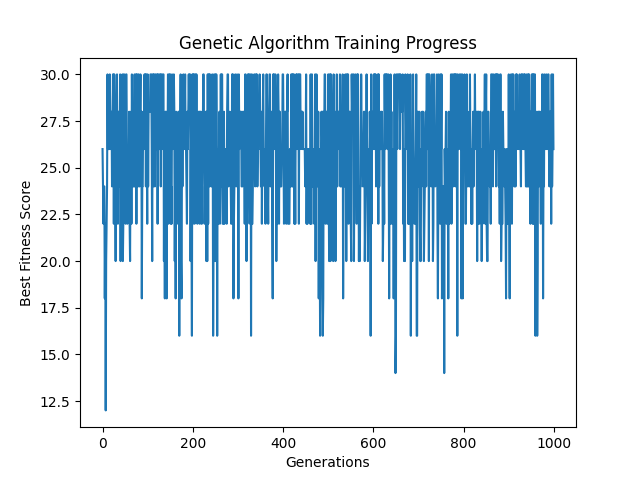
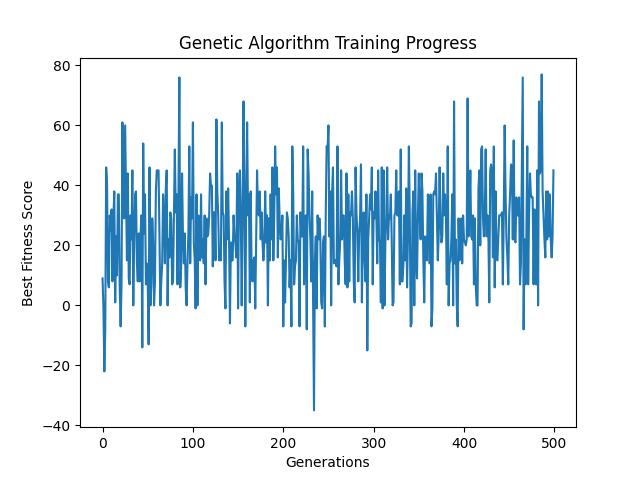
change fitness function

diff --git a/venv/tic_tac_toe_ai.py b/venv/tic_tac_toe_ai.py
@@ -1,57 +1,74 @@
 import numpy as np
 import random
+import pygame
+import os
 import matplotlib.pyplot as plt
 
+# Pygame settings
+WIDTH, HEIGHT = 300, 300
+SQUARE_SIZE = WIDTH // 3
+LINE_WIDTH = 5
+WHITE, BLACK, RED = (255, 255, 255), (0, 0, 0), (255, 0, 0)
+
+pygame.init()
+# screen = pygame.display.set_mode((WIDTH, HEIGHT))
+# pygame.display.set_caption("Tic Tac Toe AI Training")
+
 class GeneticAI:
-    def __init__(self, population_size=100, mutation_rate=0.1, generations=1000):
+    def __init__(self, population_size=90, mutation_rate=0.1, generations=500):
         self.population_size = population_size
         self.mutation_rate = mutation_rate
         self.generations = generations
         self.population = [self.create_random_strategy() for _ in range(population_size)]
 
     def create_random_strategy(self):
-        return np.random.rand(3, 3)  # Random weights for moves
+        return np.random.rand(3, 3) * 2 - 1  # Values range from -1 to 1
 
     def evaluate(self, strategy):
+        """Improved fitness function for AI"""
         score = 0
         for _ in range(10):  # Simulate 10 games per strategy
             board = [[None] * 3 for _ in range(3)]
             result = self.simulate_game(strategy, board)
             if result == "win":
-                score += 3
+                score += 10
             elif result == "draw":
-                score += 1
+                score += 2
             elif result == "loss":
-                score -= 1
+                score -= 5
         return score
 
     def simulate_game(self, strategy, board):
-           for _ in range(9):
-               move = self.select_best_move(strategy, board)
-               if move is None:
-                   break
-               row, col = move
-               board[row][col] = 'X'
-               # draw_board(board)
-               # pygame.display.update()
-               # pygame.time.delay(500)  # Show move for better visualization
-   
-               if self.check_winner(board, 'X'):
-                   return "win"
-   
-               self.random_opponent_move(board)
+        """Visualize AI playing Tic-Tac-Toe"""
+        # screen.fill(WHITE)
+        # draw_grid()
+
+        for _ in range(9):
+            move = self.select_best_move(strategy, board)
+            if move is None:
+                break
+            row, col = move
+            board[row][col] = 'X'
             # draw_board(board)
-               # pygame.display.update()
+            # pygame.display.update()
             # pygame.time.delay(500)
 
-               if self.check_winner(board, 'O'):
-                   return "loss"
-           return "draw"
+            if self.check_winner(board, 'X'):
+                return "win"
 
+            self.smart_opponent_move(board)  # Dynamic opponent
+            # draw_board(board)
+            # pygame.display.update()
+            # pygame.time.delay(500)
+
+            if self.check_winner(board, 'O'):
+                return "loss"
+
+        return "draw"
 
     def select_best_move(self, strategy, board):
         """Select the best move based on strategy values."""
-        best_score = -1
+        best_score = -float('inf')
         best_move = None
         for row in range(3):
             for col in range(3):
@@ -61,9 +78,26 @@ class GeneticAI:
                         best_move = (row, col)
         return best_move
 
-    def random_opponent_move(self, board):
-        """Make a random move for the opponent."""
+    def smart_opponent_move(self, board):
+        """Opponent tries to block AI from winning."""
         empty_positions = [(r, c) for r in range(3) for c in range(3) if board[r][c] is None]
+
+        # Try to win
+        for row, col in empty_positions:
+            board[row][col] = 'O'
+            if self.check_winner(board, 'O'):
+                return
+            board[row][col] = None  # Undo
+
+        # Try to block AI from winning
+        for row, col in empty_positions:
+            board[row][col] = 'X'
+            if self.check_winner(board, 'X'):
+                board[row][col] = 'O'
+                return
+            board[row][col] = None  # Undo
+
+        # If no immediate threat, play randomly
         if empty_positions:
             row, col = random.choice(empty_positions)
             board[row][col] = 'O'
@@ -83,7 +117,7 @@ class GeneticAI:
     def mutate(self, strategy):
         """Apply mutations to strategy."""
         if random.random() < self.mutation_rate:
-            mutation = np.random.normal(0, 0.1, (3, 3))
+            mutation = np.random.normal(0, 0.3, (3, 3))  # Stronger mutation
             strategy += mutation
         return strategy
 
@@ -96,7 +130,7 @@ class GeneticAI:
         """Train AI using Genetic Algorithm."""
         scores = [(self.evaluate(strategy), strategy) for strategy in self.population]
         scores.sort(reverse=True, key=lambda x: x[0])
-        self.population = [x[1] for x in scores[:self.population_size // 2]]  # Keep top half
+        self.population = [x[1] for x in scores[:self.population_size // 2]]
         while len(self.population) < self.population_size:
             parent1, parent2 = random.sample(self.population, 2)
             self.population.append(self.crossover(parent1, parent2))
@@ -105,34 +139,56 @@ class GeneticAI:
         return max(self.population, key=self.evaluate)
 
     def visualize_learning(self):
-        """Visualize fitness progression over generations."""
+        """Train AI and save the best strategy."""
         fitness_progress = []
-        for _ in range(self.generations):
+
+        for generation in range(self.generations):
             self.evolve()
             best_strategy = self.get_best_strategy()
-            best_fitness = self.evaluate(self.get_best_strategy())
+            best_fitness = self.evaluate(best_strategy)
             fitness_progress.append(best_fitness)
+            
+            print(f"Generation {generation + 1}/{self.generations} - Best Fitness: {best_fitness}")
 
-       
+            board = [[None] * 3 for _ in range(3)]
+            self.simulate_game(best_strategy, board)
+
         np.save("best_strategy.npy", best_strategy)
         print("Training complete! Best strategy saved as best_strategy.npy")
 
-    # Plot training progress
         plt.plot(fitness_progress)
         plt.xlabel("Generations")
         plt.ylabel("Best Fitness Score")
         plt.title("Genetic Algorithm Training Progress")
-        plt.savefig("training_progress.png")  # Save plot instead of showing it
+        plt.savefig("training_progress.png")
         plt.close()
 
+# Pygame visualization functions
+# def draw_grid():
+#     """Draws the Tic-Tac-Toe grid."""
+#     for i in range(1, 3):
+#         pygame.draw.line(screen, BLACK, (0, i * SQUARE_SIZE), (WIDTH, i * SQUARE_SIZE), LINE_WIDTH)
+#         pygame.draw.line(screen, BLACK, (i * SQUARE_SIZE, 0), (i * SQUARE_SIZE, HEIGHT), LINE_WIDTH)
 
+# def draw_board(board):
+#     """Draws the board with Xs and Os."""
+#     screen.fill(WHITE)
+#     draw_grid()
+#     for row in range(3):
+#         for col in range(3):
+#             if board[row][col] == "X":
+#                 pygame.draw.line(screen, BLACK, (col * SQUARE_SIZE + 20, row * SQUARE_SIZE + 20),
+#                                  (col * SQUARE_SIZE + SQUARE_SIZE - 20, row * SQUARE_SIZE + SQUARE_SIZE - 20), LINE_WIDTH)
+#                 pygame.draw.line(screen, BLACK, (col * SQUARE_SIZE + SQUARE_SIZE - 20, row * SQUARE_SIZE + 20),
+#                                  (col * SQUARE_SIZE + 20, row * SQUARE_SIZE + SQUARE_SIZE - 20), LINE_WIDTH)
+#             elif board[row][col] == "O":
+#                 pygame.draw.circle(screen, RED, 
+#                                    (col * SQUARE_SIZE + SQUARE_SIZE // 2, row * SQUARE_SIZE + SQUARE_SIZE // 2), 
+#                                    SQUARE_SIZE // 3, LINE_WIDTH)
+#     pygame.display.update()
 
-
-    def get_ai_move(self, board):
-        """Return the AI's best move for the current board state."""
-        best_strategy = self.get_best_strategy()
-        return self.select_best_move(best_strategy, board)
-
+# Run training and visualization
 if __name__ == "__main__":
     ai = GeneticAI()
     ai.visualize_learning()
+    pygame.quit()
